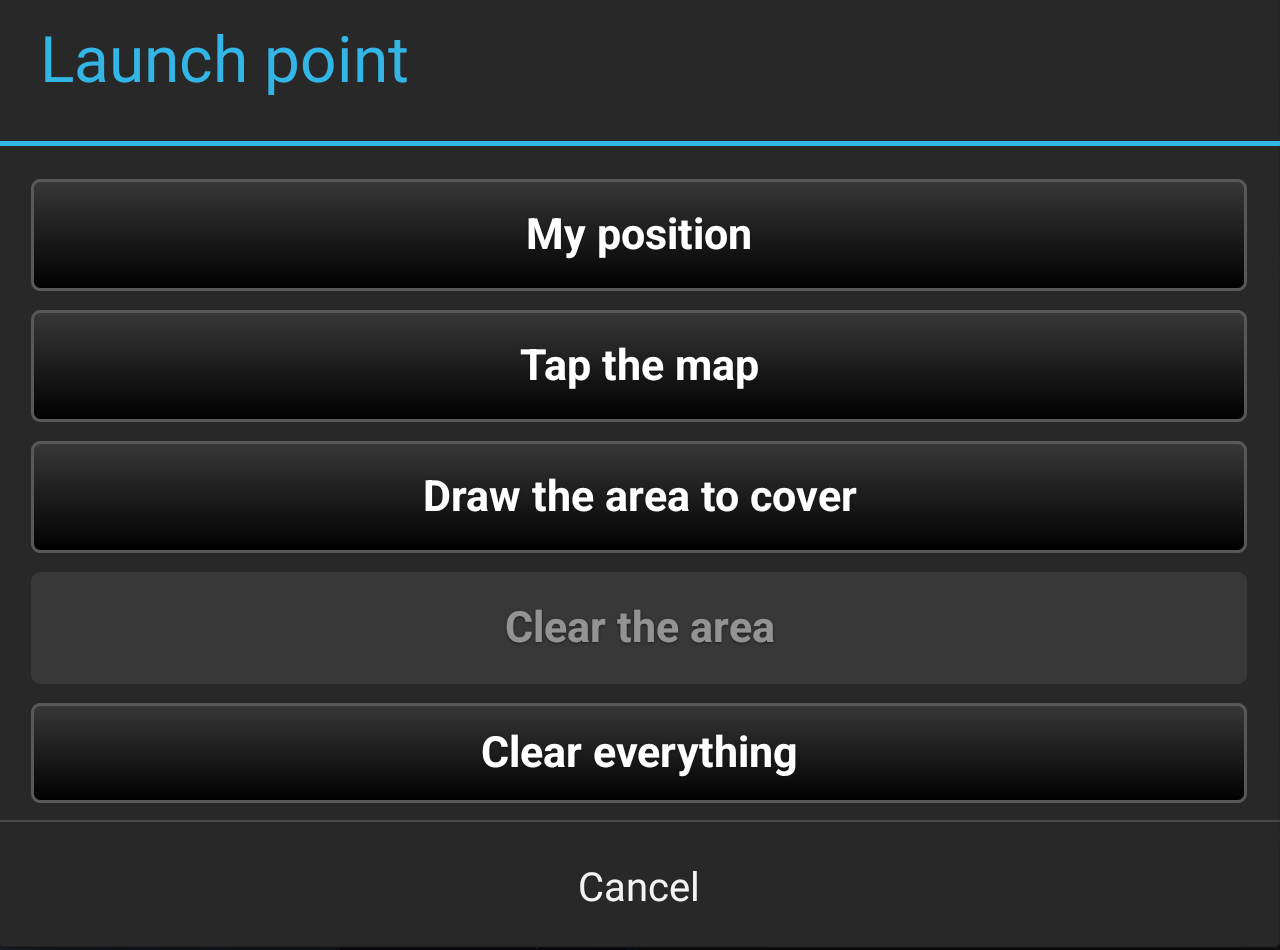
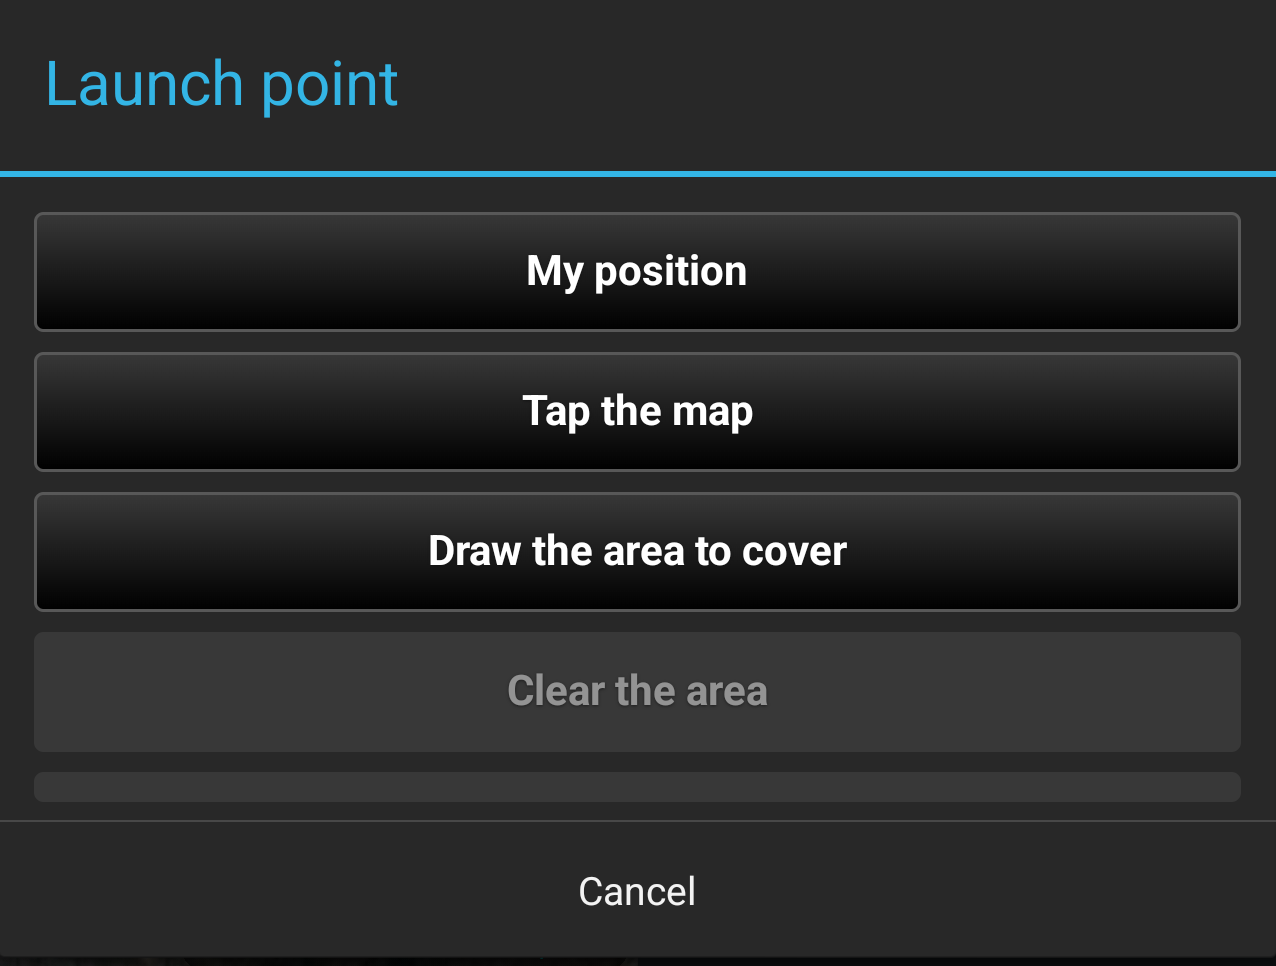
UASFlightPlan 0.1: the map pictures, shot on the signed build
Toolbar icon, launch point with its circle, a drawn area, red islands
under a given ceiling, and the towers flat and in 3D, all from the
tak.gov-signed 0.1 on official ATAK 5.8. The main screen and the Launch
point popup are retaken from the same build.

Changed region(s): [[0.0, 0.0305, 1.0, 0.8547], [0.0611, 0.9768, 1.0, 1.0], [0.4279, 0.9158, 0.5502, 0.9463]]

diff --git a/docs/USER_GUIDE.md b/docs/USER_GUIDE.md
@@ -38,6 +38,8 @@ Tap the UAS Flight Plan icon in ATAK's toolbar (or find it under Tools). The
 pane opens at half width with three buttons: **Islands ON/OFF**, **Settings**
 and **Launch point**.
 
+![The icon in ATAK's toolbar](screenshots/1_toolbar.png)
+
 ![The main screen](screenshots/2_main_screen.png)
 
 The line at the top is the status line. It always says what the plugin is
@@ -69,6 +71,8 @@ Around the launch point the plugin paints a circle, 1 mi across by default
 (Settings, Area). Blue is ground you can work over. A white edge marks the
 limit of what was checked.
 
+![The launch point and its circle](screenshots/4_launch_point.png)
+
 ---
 
 ## 3. Drawing the area to cover
@@ -84,6 +88,8 @@ position** or **Tap the map**.
 
 Starting a new area removes the old one at once. The shape is one of your own
 ATAK drawings, so it comes back when ATAK restarts and the plugin picks it up.
+
+![A drawn area with the launch point inside it](screenshots/5_drawn_area.png)
 
 ---
 
@@ -125,6 +131,8 @@ as **red islands**: flying over them at that height would put the aircraft
 through the ceiling. The mission area has to be blue, or the ceiling is wrong
 for the mission.
 
+![Red islands under a given ceiling](screenshots/9_islands.png)
+
 ---
 
 ## 5. Obstacles
@@ -134,8 +142,12 @@ transmission towers, wire spans, wind turbines, stacks and tanks. Each stands
 on the map as a mast at its real height, with its name in a pill above an
 orange tower symbol. Tilt the map into 3D and they stand up.
 
+![The masts standing in 3D](screenshots/12_obstacles_3d.png)
+
 - **Orange**: the top is under the ceiling.
 - **Red**: the top is at or above the ceiling.
+
+![Charted towers inside the area](screenshots/12_obstacles.png)
 
 The list under the ceiling block shows the same obstacles nearest you first,
 with the height above ground, the top in MSL, lit or unlit, verified or not,
